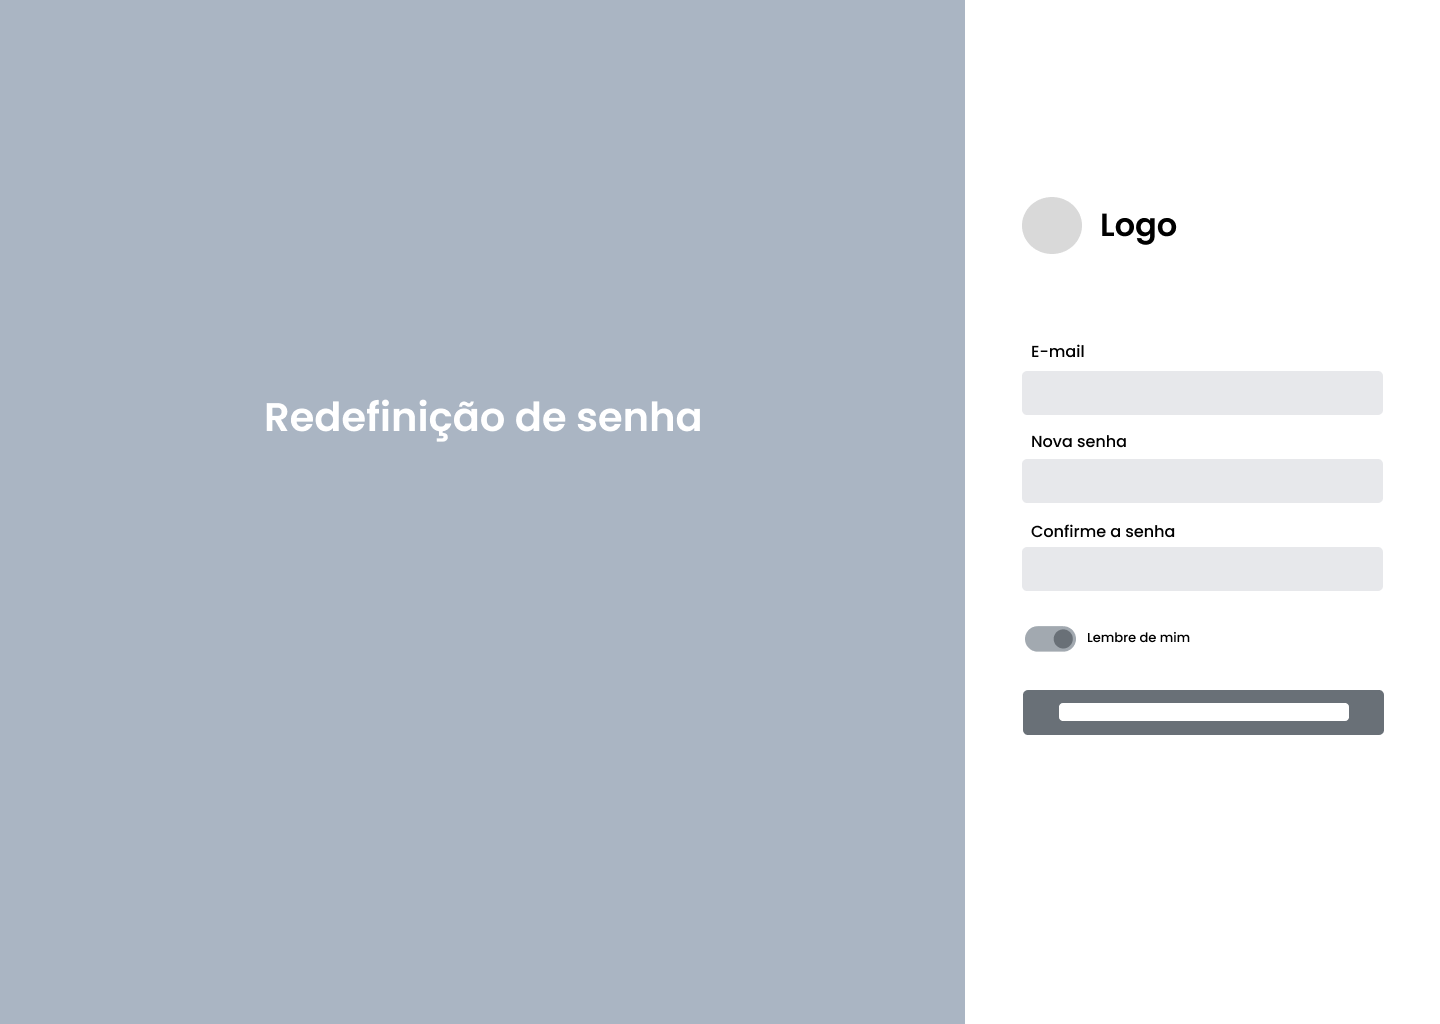
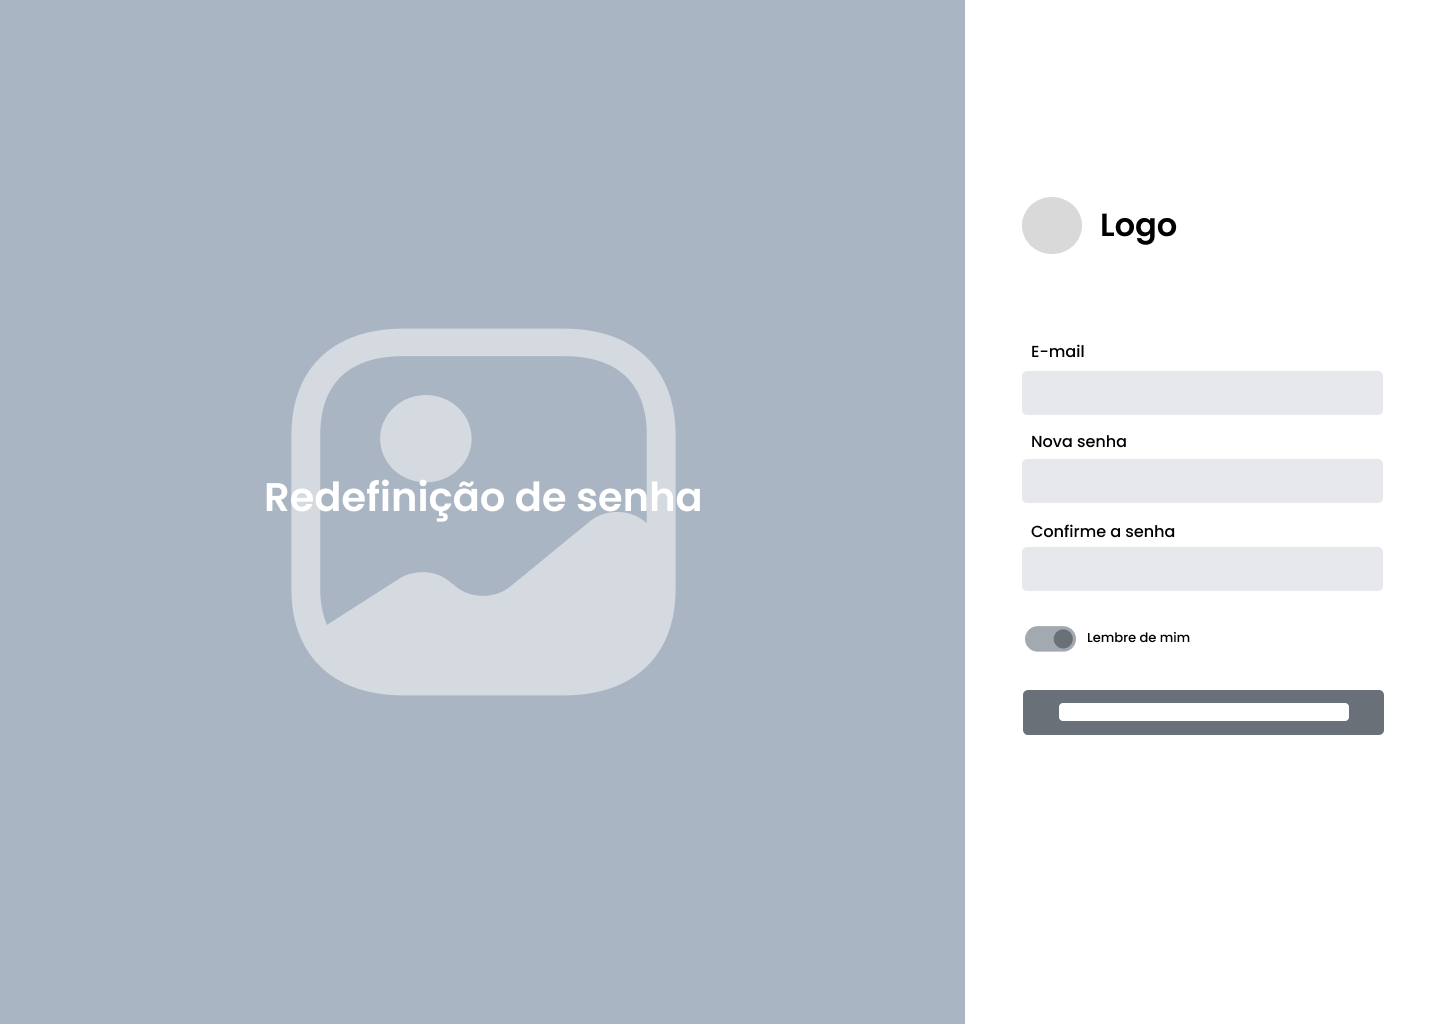
Update interface

Changed region(s): [[0.1875, 0.3125, 0.5, 0.6875]]

diff --git a/docs/interface.md b/docs/interface.md
@@ -78,6 +78,16 @@ Os modais da tela inicial permitem ao usuário gerenciar suas reservas de forma 
   <img src="img/ModalInicial4.png" width="45%">
 </p>
 
+## Tela de Perfil 
+
+A tela de perfil permite ao usuário visualizar e gerenciar suas informações pessoais e preferências do sistema. Também possibilita a alteração de senha de forma simples e segura. A interface foi desenvolvida para oferecer uma experiência intuitiva, organizada e acessível, permitindo que o usuário atualize seus dados rapidamente dentro da plataforma.
+
+Nesta tela, são apresentados os seguintes requisitos:
+- RNF-01: O sistema deve possuir autenticação segura com criptografia de senhas.
+- RNF-11: A interface deve permitir que o usuário altere suas informações em poucos passos, garantindo praticidade e usabilidade.
+
+![Wire Frame Inicial](img/WireFrame-Perfil.png)
+
 ## Tela de Calendário
 
 A tela de calendário permite ao usuário visualizar a disponibilidade dos espaços ao longo dos dias e horários. A interface apresenta um calendário interativo com navegação entre meses, exibindo reservas de salas e estações em horários específicos. O usuário pode identificar facilmente períodos livres e ocupados, além de iniciar reservas diretamente a partir da visualização.
